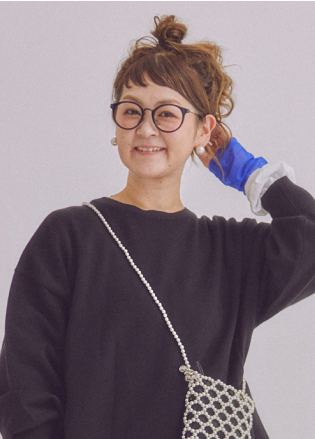
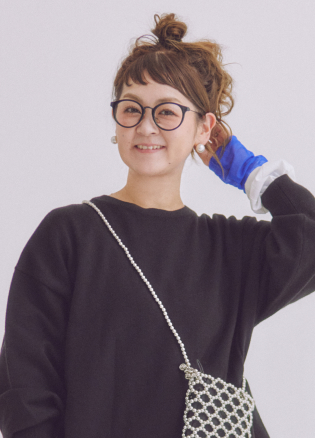
- style-list画像切り替え

diff --git a/src/assets/sass/_modules/_style-list.scss b/src/assets/sass/_modules/_style-list.scss
@@ -85,8 +85,23 @@
     font-size: 0;
     line-height: 1;
     margin-bottom: f.get_vw(10);
+    position: relative;
     @include m.pc{
       margin-bottom: f.get_vw(10, v.$pcMaxWidth);
+    }
+
+    &__1 {
+      animation: animation_fade 8s infinite;
+    }
+    &__2 {
+      animation: animation_fade 8s infinite;
+      animation-delay: 4s;
+      position: absolute;
+      top: 0;
+      left: 0;
+      width: 100%;
+      height: 100%;
+      opacity: 0;
     }
   }
 

diff --git a/src/assets/sass/_mixin.scss b/src/assets/sass/_mixin.scss
@@ -1,6 +1,15 @@
 @use './variables' as v;
 @use './functions' as f;
 
+// アニメーション
+@keyframes animation_fade {
+  0%{ opacity: 0; }
+  15%{ opacity: 1; } // 1.5s
+  60%{ opacity: 1; } // 6.0s
+  75%{ opacity: 0; } // 7.5s
+  100%{ opacity: 0; } // 10s
+}
+
 // pcサイズ
 @mixin pc {
   @media screen and (min-width: 769px) {
